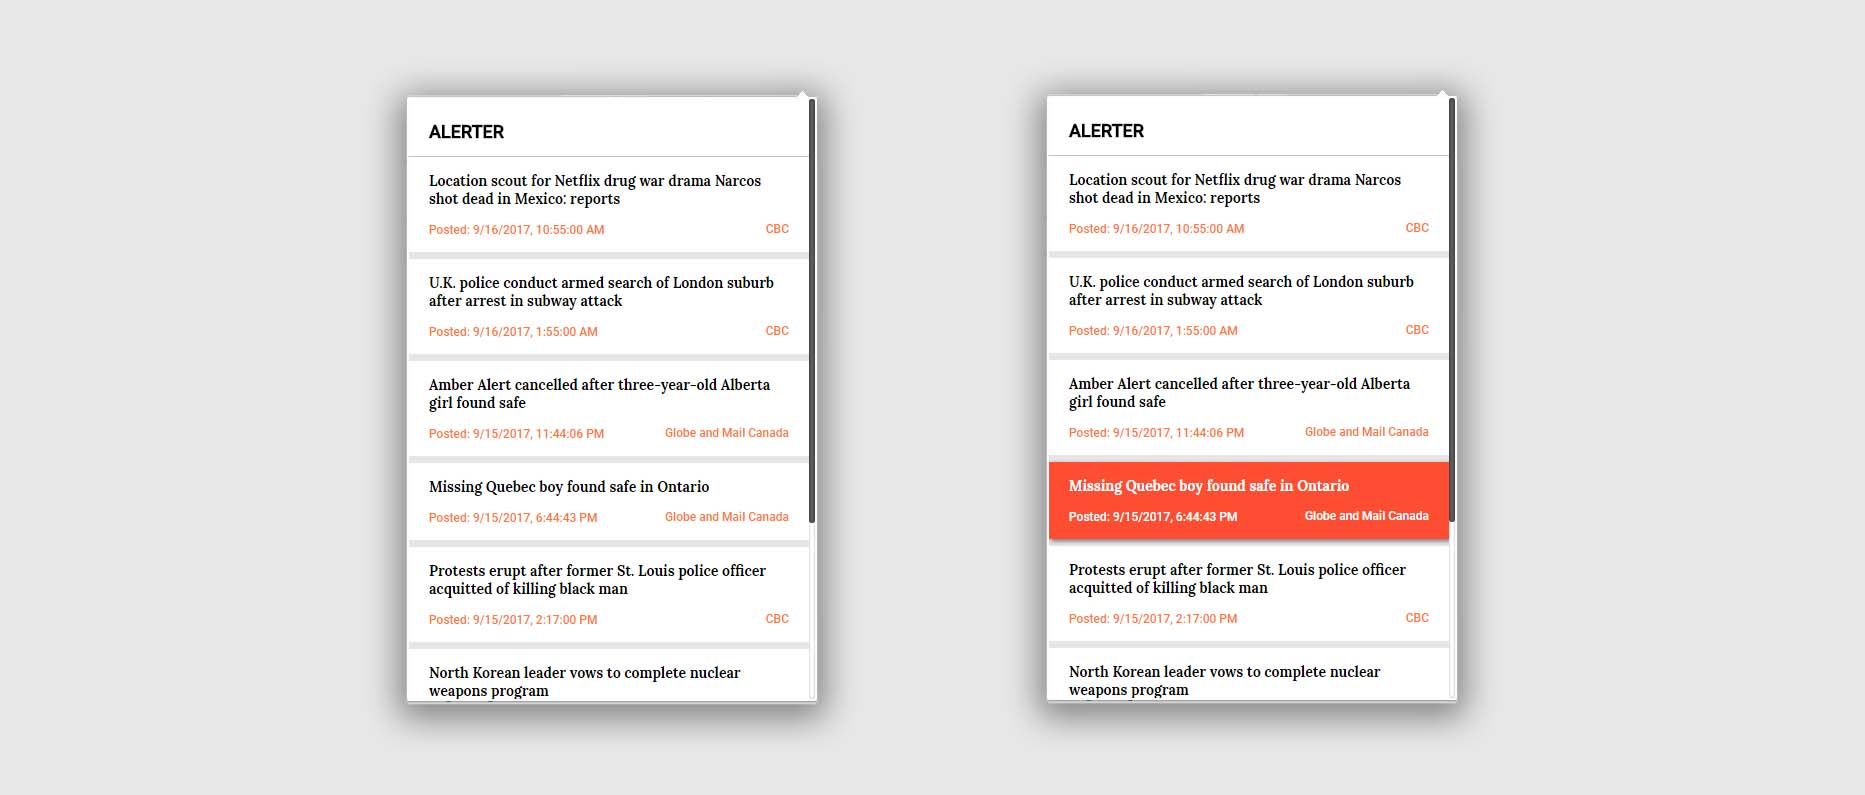
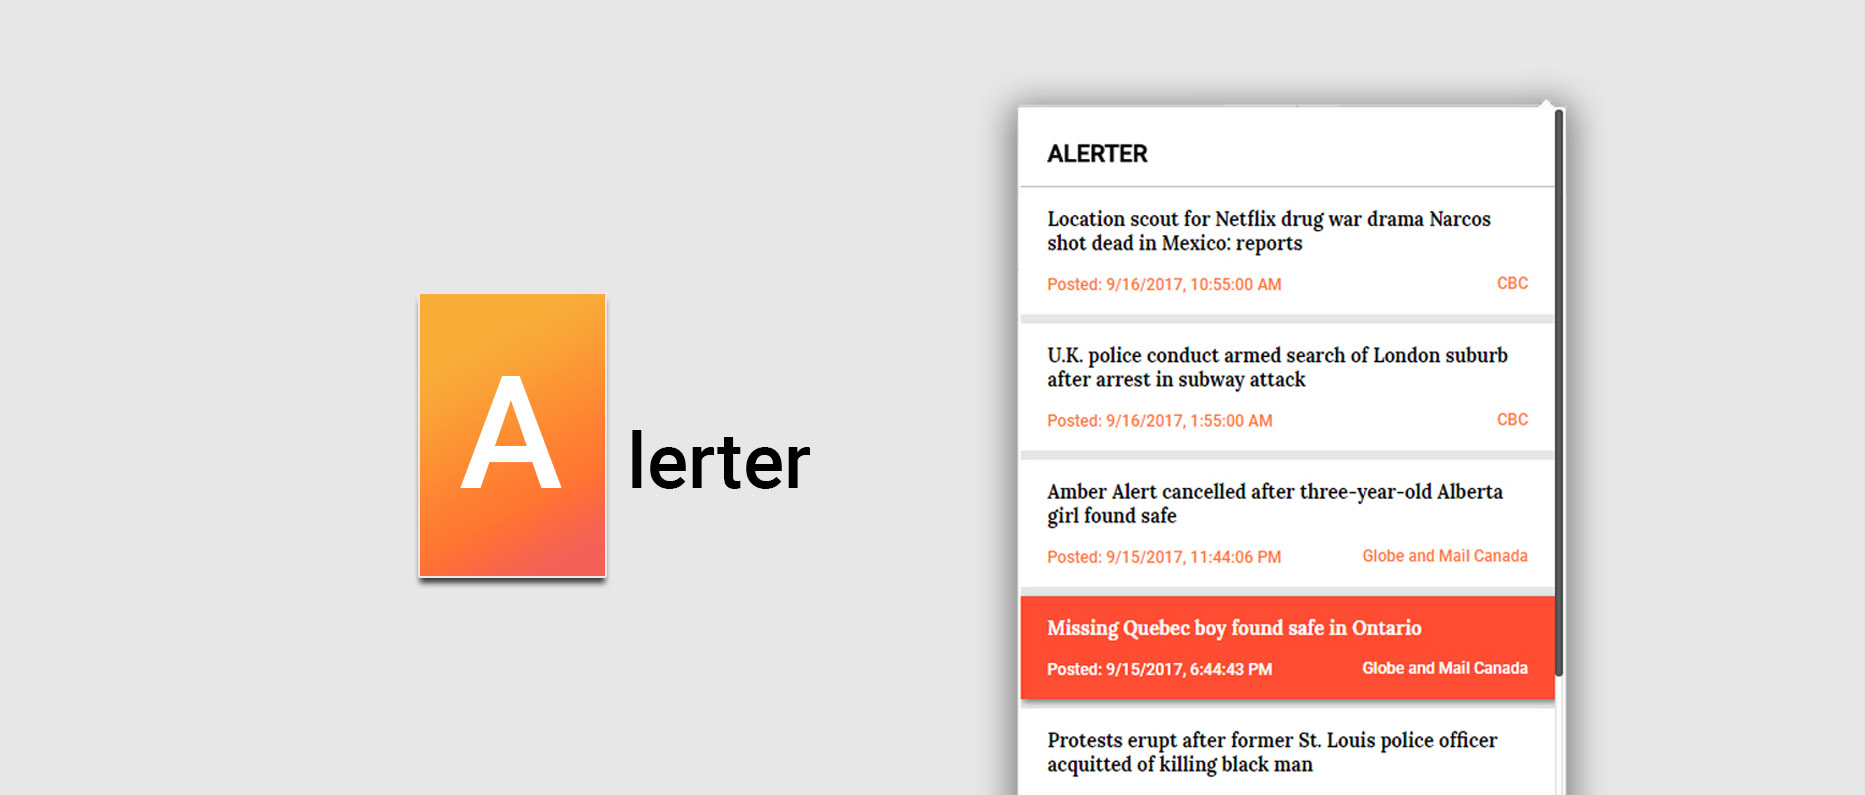
Updated links and Projects

Changed region(s): [[0.5287, 0.0906, 0.8708, 1.0], [0.1866, 0.1208, 0.4665, 0.9358], [0.2177, 0.0906, 0.4354, 0.1208]]

diff --git a/projects.html b/projects.html
@@ -27,8 +27,9 @@
 			<p class='link' onclick="link('contact.html');">Contact Me</p>
 			<div class='menuFooter'>
 				<hr style='margin-bottom: 10px;'>
-				<p class='link' onclick="location.href='mailto:dzdesignsgraphics@gmail.com'"><i class="fa fa-envelope" aria-hidden="true"></i> email</p>
+				<p class='link' onclick="location.href='mailto:dy4zhang@edu.uwaterloo.ca'"><i class="fa fa-envelope" aria-hidden="true"></i> email</p>
 				<p class='link' onclick="window.open('https://github.com/Danimator')"><i class="fa fa-github" aria-hidden="true"></i> github</p>
+				<p class='link' onclick="window.open('https://www.linkedin.com/in/danielzhangy/')"><i class="fa fa-linkedin" aria-hidden="true"></i> linkedin</p>
 			</div>
 		</div>
 		<div id="menuButton" onclick="toggle(this);" class="">
@@ -55,6 +56,31 @@
 						</p>
 					</div>
 					
+					<div class='project'>
+						<div class='projectImage' style="background-image: url('images/alerter.jpg'); background-size: cover;"></div>
+						<div class='projectCover' onclick="window.open('https://github.com/Danimator/Alerter');">View</div>
+						<h4 class='projectTitle' onclick="window.open('https://github.com/Danimator/Alerter');">Alerter</h4>
+						<span class='projectLang'>Python</span> <span class='projectLang HTML'>HTML</span> <span class='projectLang CSS'>CSS</span> <span class='projectLang JS'>JavaScript</span> 
+						<span class='projectLang'> | September 2017 | </span>
+						<span class='projectLink' onclick="window.open('https://github.com/Danimator/Alerter');"><i class="fa fa-github"></i>Github</span>
+						<p class='projectDescription'>
+							A Chrome Extension that actively scrapes news from the web and uses a Naive Bayes classifier to display breaking news articles. Features the usage of the Beautiful Soup HTML parser and Flask to scrape news and communicate with the HTML/CSS/JavaScript UI. Built in under 36 hours at Hack the North 2017.
+ 						</p>
+					</div>
+
+					<div class='project'>
+						<div class='projectImage' style="background-image: url('images/collision.jpg'); background-size: cover;"></div>
+						<div class='projectCover' onclick="window.open('https://github.com/Danimator/2D-Collision-Simulator');">View</div>
+						<h4 class='projectTitle' onclick="window.open('https://github.com/Danimator/2D-Collision-Simulator');">2D Collision Simulator</h4>
+						<span class='projectLang HTML'>HTML</span> <span class='projectLang CSS'>CSS</span> <span class='projectLang JS'>JavaScript</span> 
+						<span class='projectLang'> | December 2017 | </span>
+						<span class='projectLink' onclick="window.open('https://github.com/Danimator/2D-Collision-Simulator');"><i class="fa fa-github"></i>Github</span>
+						<span class='projectLink' onclick="window.open('https://danimator.github.io/2D-Collision-Simulator/');"><i class="fa fa-link"></i>Demo</span>
+						<p class='projectDescription'>
+							An animated simulator and calculator for oblique central collisions on the 2D plane, with a given Coefficient of Restitution. Uses Cramer's rule to solve for final variables, and makes use of CSS transforms to optimize UI.
+ 						</p>
+					</div>
+
 					<div class='project'>
 						<div class='projectImage' style="background-image: url('images/chessclock.jpg'); background-size: cover;"></div>
 						<div class='projectCover' onclick="window.open('https://github.com/Danimator/Chess-Clock');">View</div>

diff --git a/about.html b/about.html
@@ -27,8 +27,9 @@
 			<p class='link' onclick="link('contact.html');">Contact Me</p>
 			<div class='menuFooter'>
 				<hr style='margin-bottom: 10px;'>
-				<p class='link' onclick="location.href='mailto:dzdesignsgraphics@gmail.com'"><i class="fa fa-envelope" aria-hidden="true"></i> email</p>
+				<p class='link' onclick="location.href='mailto:dy4zhang@edu.uwaterloo.ca'"><i class="fa fa-envelope" aria-hidden="true"></i> email</p>
 				<p class='link' onclick="window.open('https://github.com/Danimator')"><i class="fa fa-github" aria-hidden="true"></i> github</p>
+				<p class='link' onclick="window.open('https://www.linkedin.com/in/danielzhangy/')"><i class="fa fa-linkedin" aria-hidden="true"></i> linkedin</p>
 			</div>
 		</div>
 		<div id="menuButton" onclick="toggle(this);" class="">
@@ -46,11 +47,14 @@
 					<p>
 						Hi, I'm Daniel!</b>
 					</p>
-					<p>I’m a student at Killarney Secondary School in <b>Vancouver, BC</b>. I work with <b>C++</b>, <b>Python</b>, and web technologies in order to create experiences and solve problems.</p>
+					<p>I’m currently a 1B <b>Computer Science</b> student in at the <b>University of Waterloo</b>. I work with <b>C++</b>, <b>Python</b>, <b>Java</b>, <b>Scheme</b> and web technologies in order to create experiences and solve problems.</p>
 					<p>
-						I love to code, and I currently sit as the <b>President</b> of my school's <b>Programming Club</b> to share my passion.
-						In the past, I have volunteered as a <b>mentor</b> at the Vancouver Public Library's Coding Buddies program, and I've also mentored Programming 11 students in-class, as a community service student.
+						I previously interned at <b>Hootsuite</b>, where I had the opportunity to apply machine learning to integrate intelligent features in their employee advocacy app, Amplify. <br> Read about it here: <a class='link' href='http://code.hootsuite.com/leveraging-machine-learning-to-rank-buying-intent/'>Leveraging Machine Learning to Rank Buying Intent</a>
 					</p>
+					<p>
+						In the past, I've sat as the <b>President</b> of Killarney Secondary School's Programming Club, and volunteered as a <b>mentor</b> at the Vancouver Public Library's Coding Buddies program
+					</p>
+
 					<p>Currently, I am interested in <b>Artificial Intelligence</b> and developing web apps. I have developed a C++ chess engine, and I am actively improving it in my spare time. </p>
 					<hr style='margin-top: 30px; margin-bottom: 10px;'>
 				</div>

diff --git a/index.html b/index.html
@@ -27,8 +27,9 @@
 			<p class='link' onclick="link('contact.html');">Contact Me</p>
 			<div class='menuFooter'>
 				<hr style='margin-bottom: 10px;'>
-				<p class='link' onclick="location.href='mailto:dzdesignsgraphics@gmail.com'"><i class="fa fa-envelope" aria-hidden="true"></i> email</p>
+				<p class='link' onclick="location.href='mailto:dy4zhang@edu.uwaterloo.ca'"><i class="fa fa-envelope" aria-hidden="true"></i> email</p>
 				<p class='link' onclick="window.open('https://github.com/Danimator')"><i class="fa fa-github" aria-hidden="true"></i> github</p>
+				<p class='link' onclick="window.open('https://www.linkedin.com/in/danielzhangy/')"><i class="fa fa-linkedin" aria-hidden="true"></i> linkedin</p>
 			</div>
 		</div>
 		<div id="menuButton" onclick="toggle(this);" class="">
@@ -93,7 +94,7 @@
 					</script>
 					<hr>
 					<p>
-						Hi, I’m <b>Daniel</b>, a student at Killarney Secondary School in <b>Vancouver, BC</b>. I love to create experiences with code, and here you’ll be able to explore some of my projects.
+						Hi, I’m <b>Daniel</b>, a 1B Computer Science student at the <b>University of Waterloo</b>. I love to create experiences with code, and here you’ll be able to explore some of my projects.
 					</p>
 					<div id='titleMenu'>
 						<div class='button1' onclick="link('about.html');">About</div>

diff --git a/contact.html b/contact.html
@@ -27,8 +27,9 @@
 			<p class='link' onclick="link('contact.html');"><b>Contact Me</b></p>
 			<div class='menuFooter'>
 				<hr style='margin-bottom: 10px;'>
-				<p class='link' onclick="location.href='mailto:dzdesignsgraphics@gmail.com'"><i class="fa fa-envelope" aria-hidden="true"></i> email</p>
+				<p class='link' onclick="location.href='mailto:dy4zhang@edu.uwaterloo.ca'"><i class="fa fa-envelope" aria-hidden="true"></i> email</p>
 				<p class='link' onclick="window.open('https://github.com/Danimator')"><i class="fa fa-github" aria-hidden="true"></i> github</p>
+				<p class='link' onclick="window.open('https://www.linkedin.com/in/danielzhangy/')"><i class="fa fa-linkedin" aria-hidden="true"></i> linkedin</p>
 			</div>
 		</div>
 		<div id="menuButton" onclick="toggle(this);" class="">

diff --git a/style/style.css b/style/style.css
@@ -378,6 +378,22 @@ p.link:hover{
 	color: rgb(220, 5, 10);
 }
 
+a:link {
+    color: rgb(220, 5, 10);
+}
+
+a:visited{
+	color: rgb(210, 5, 5);
+}
+
+a:hover{
+	color: rgb(245, 10, 15);
+}
+
+a:active{
+	color: rgb(220, 5, 10);
+}
+
 .menuFooter{
 	position: absolute;
 	bottom: 30px;
